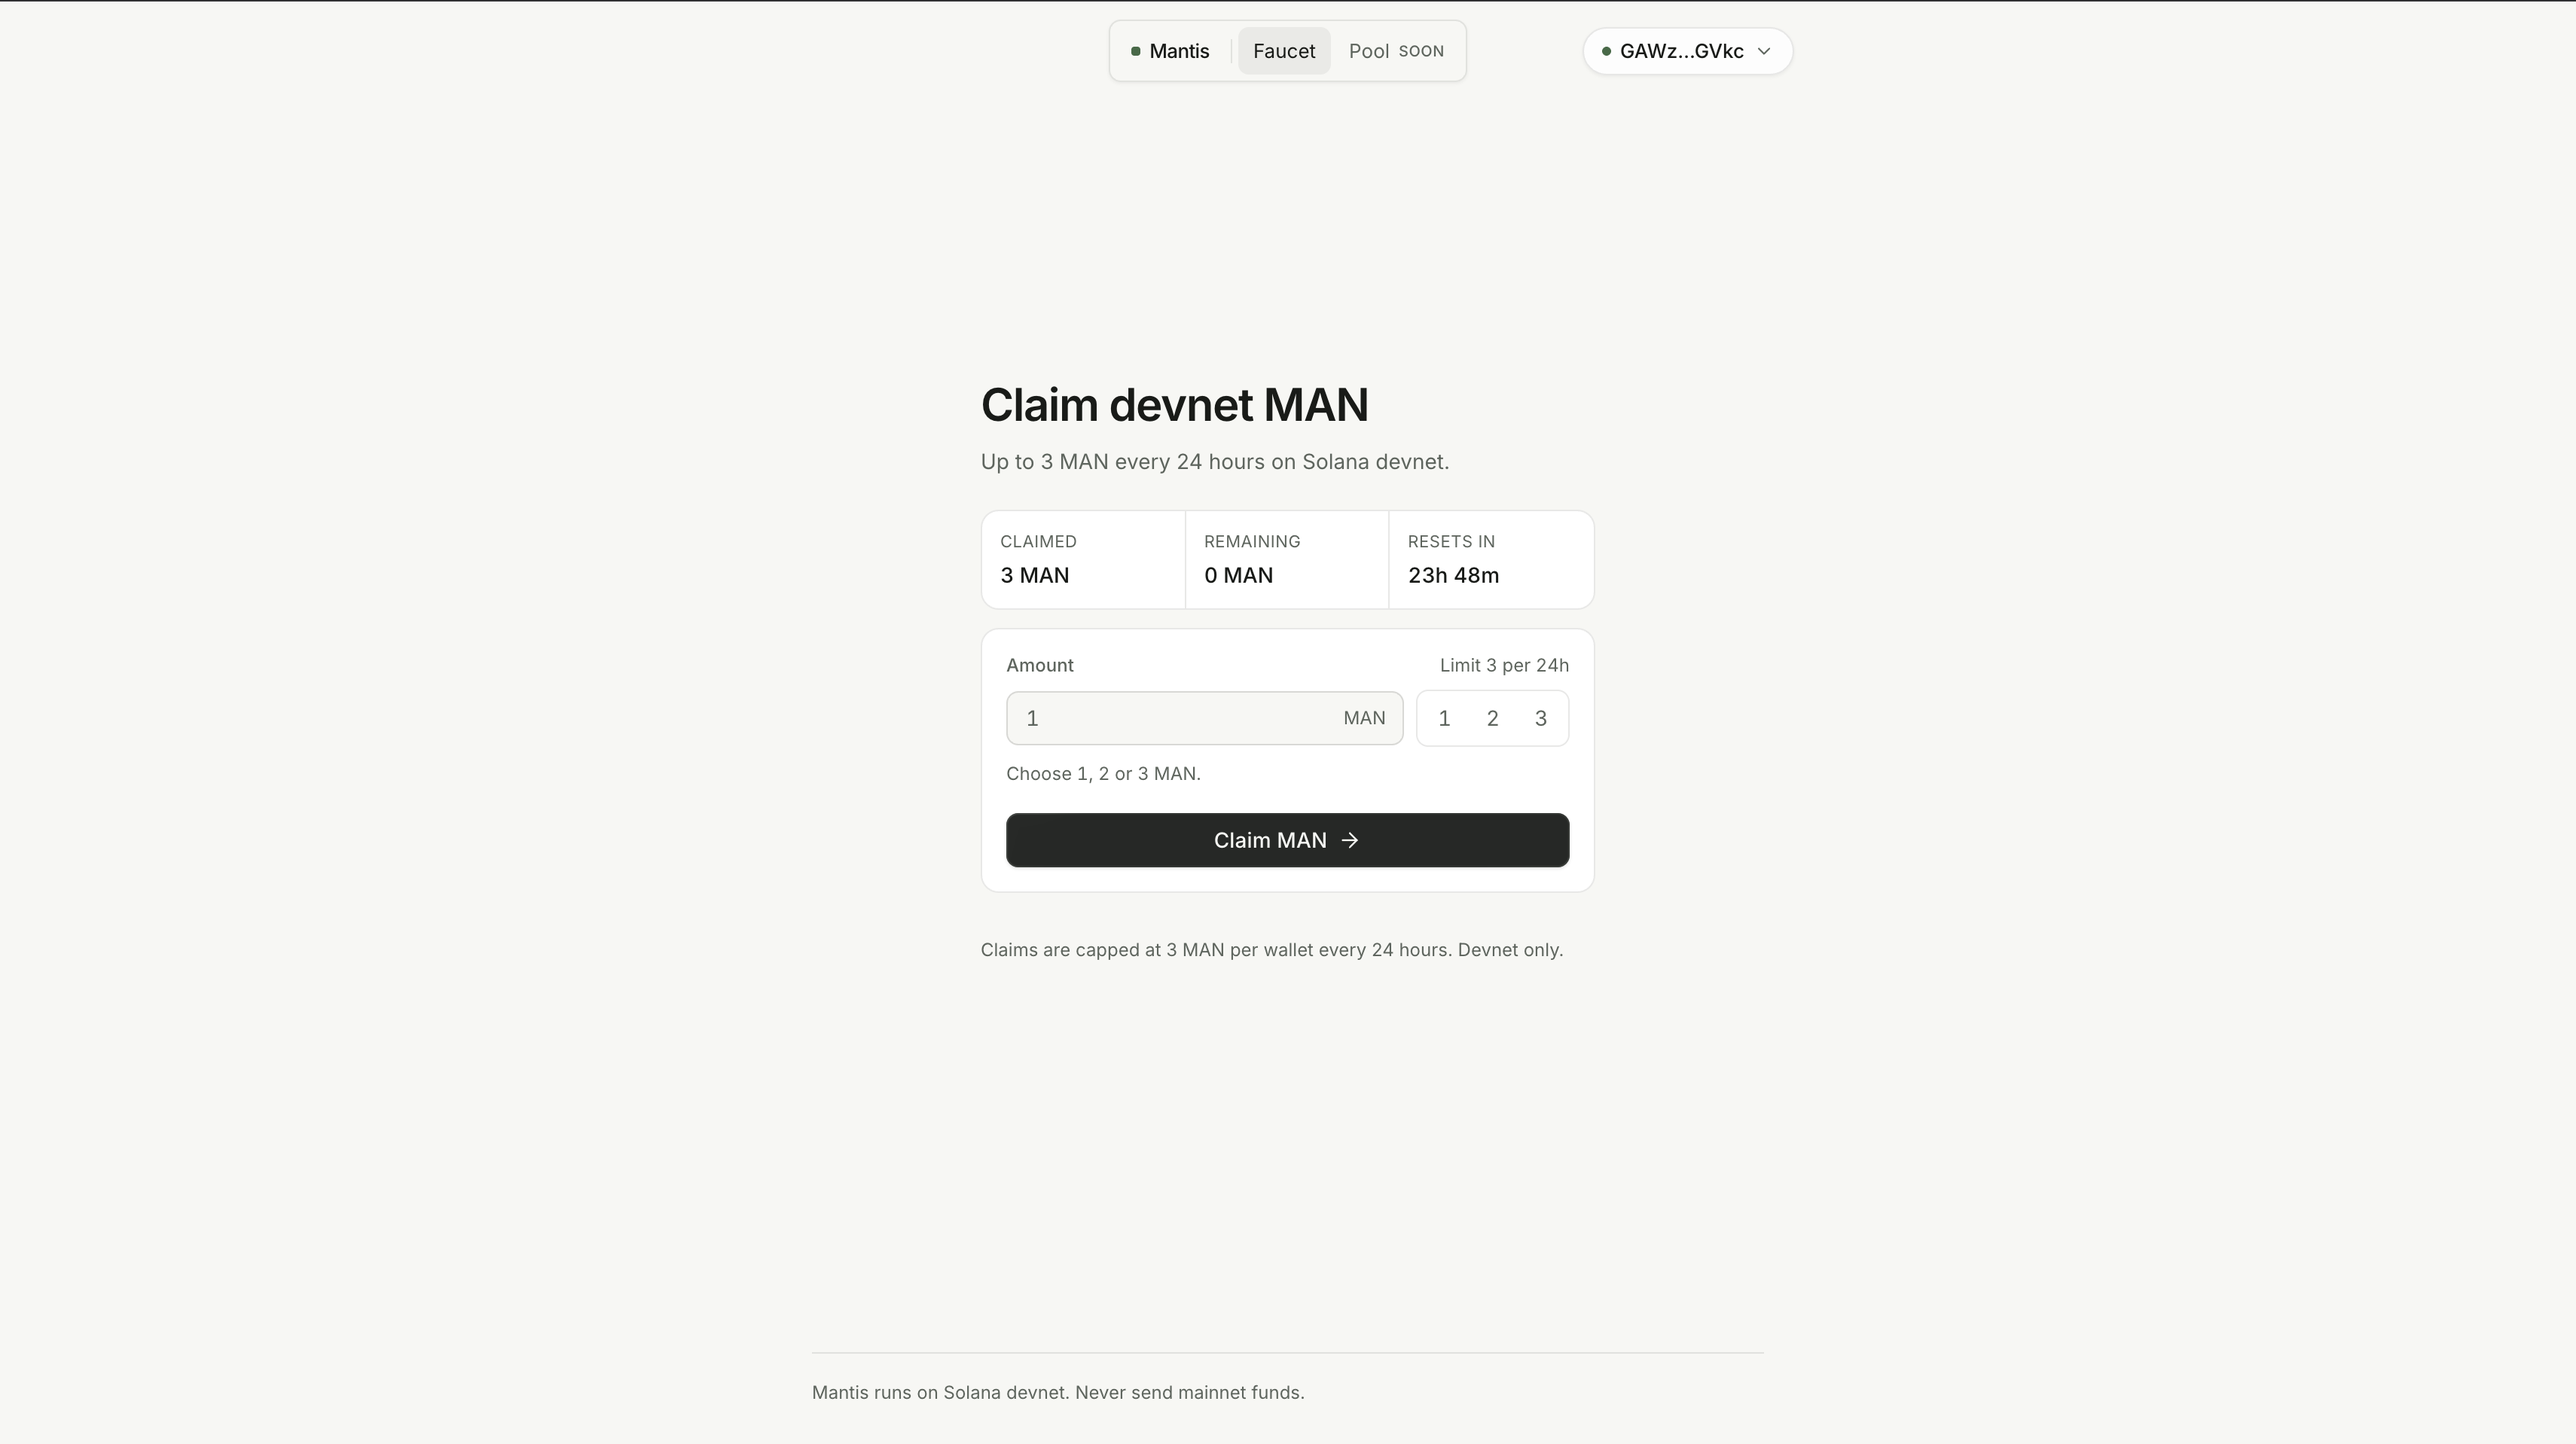
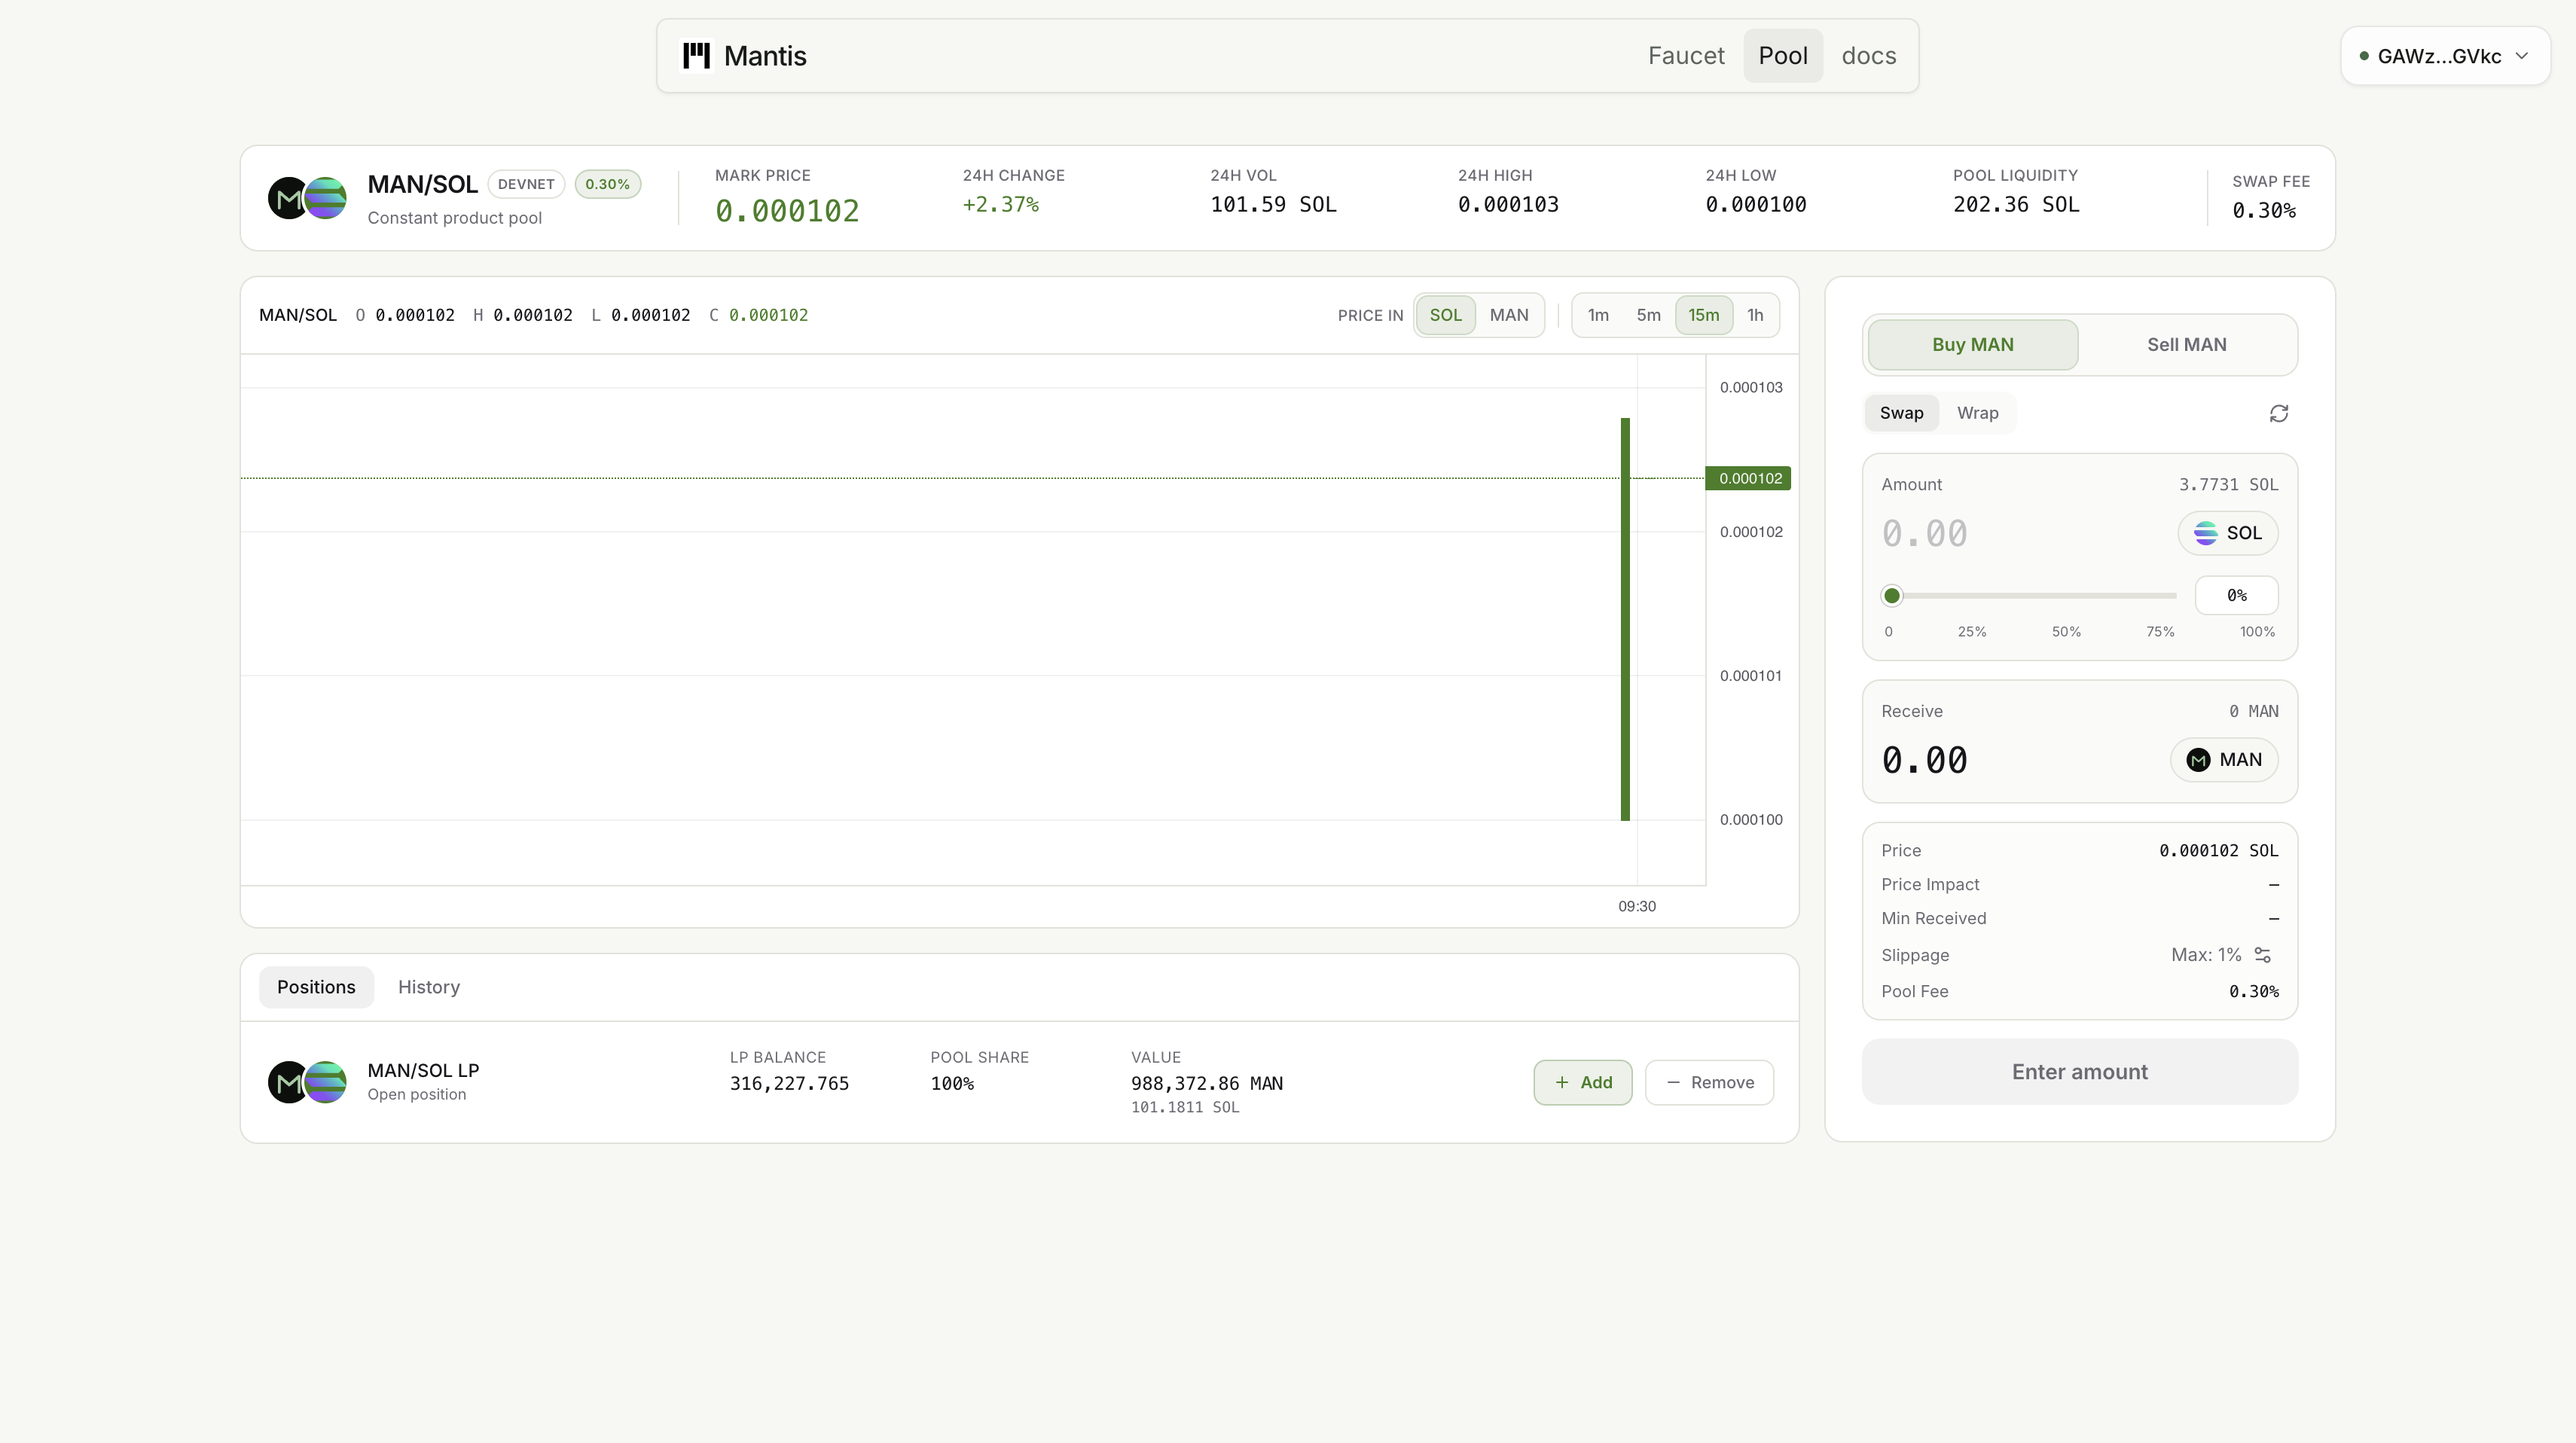
fix: updated the status to Live for mantis

diff --git a/projects.ts b/projects.ts
@@ -30,6 +30,14 @@ export const projects: Project[] = [
     imageAlt: "Live depth chart from the lobster limit order book",
     originEnv: "LOBSTER_ORIGIN",
   }, {
+    slug: "mantis",
+    name: "mantis",
+    blurb: "a Solana AMM with its own devnet token and faucet, built from scratch in Anchor.",
+    status: "Live",
+    image: "/projects/mantis.png",
+    imageAlt: "a Solana AMM with its own devnet token and faucet, built from scratch in Anchor.",
+    originEnv: "MANTIS_ORIGIN",
+  }, {
     slug: "streamex-sdk",
     name: "streamex-sdk",
     blurb: "Unified realtime crypto streams for JavaScript applications, powered by Rust.",
@@ -37,13 +45,5 @@ export const projects: Project[] = [
     image: "/projects/streamex.png",
     imageAlt: "Realtime crypto price streams flowing into a JavaScript client",
     originEnv: "STREAMEX_ORIGIN",
-  }, {
-    slug: "mantis",
-    name: "mantis",
-    blurb: "a Solana AMM with its own devnet token and faucet, built from scratch in Anchor.",
-    status: "In Development",
-    image: "/projects/mantis.png",
-    imageAlt: "a Solana AMM with its own devnet token and faucet, built from scratch in Anchor.",
-    originEnv: "MANTIS_ORIGIN",
   }
 ];
